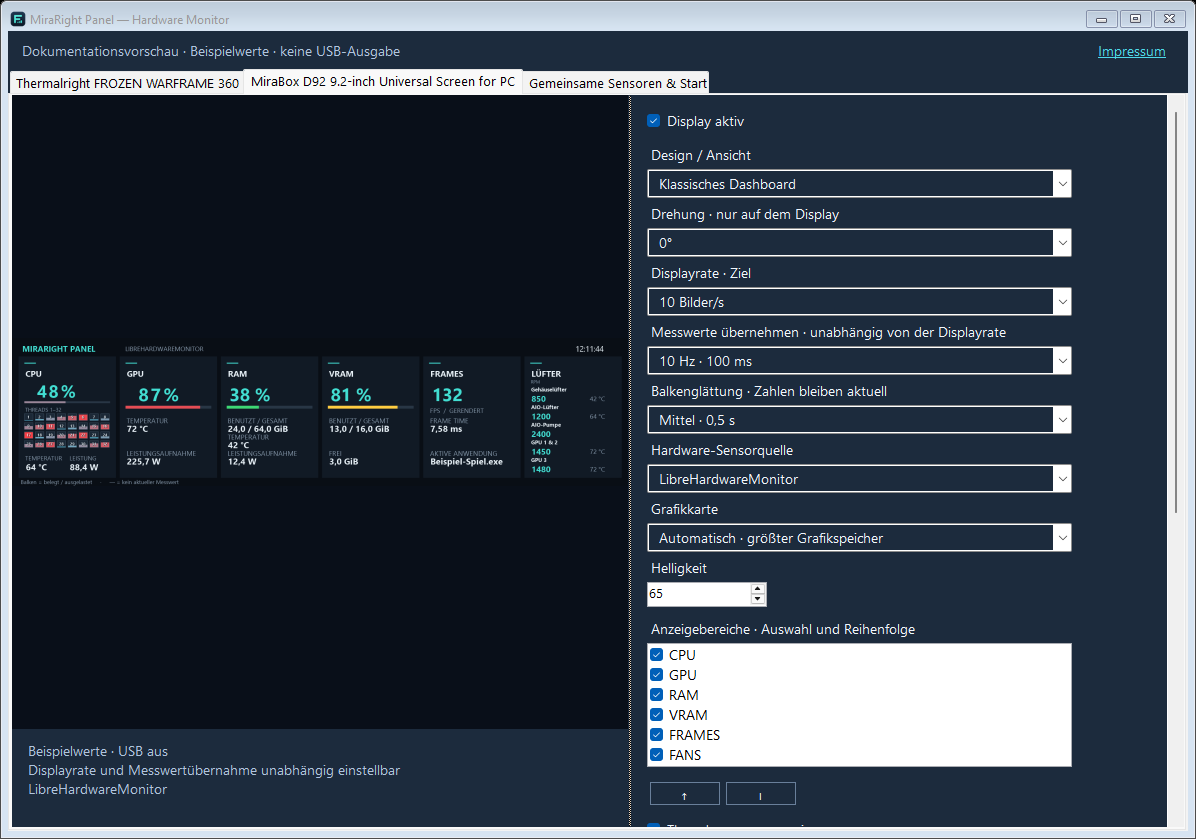
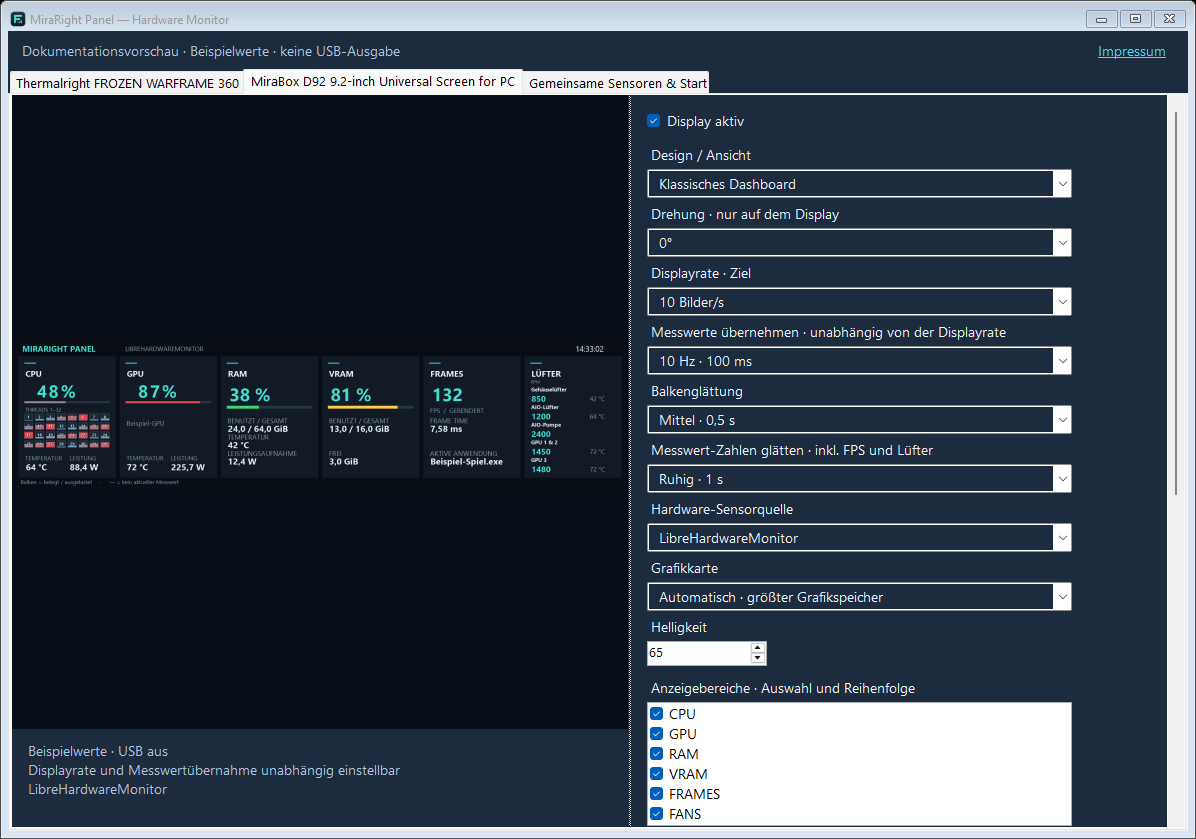
Release preview.5 with readout smoothing, sensor recovery and debug logs

Changed region(s): [[0.5259, 0.5268, 0.8972, 0.9917], [0.0928, 0.4648, 0.1856, 0.5578], [0.6187, 0.4648, 0.7425, 0.4958]]

diff --git a/src/AioDisplay.App/Sensors/SensorProcessClient.cs b/src/AioDisplay.App/Sensors/SensorProcessClient.cs
@@ -22,6 +22,9 @@ public sealed class SensorProcessClient : IDisposable
     private readonly bool elevated;
     private bool elevationAttempted;
     private ElevatedSensorTransport transport;
+    private bool scheduledOnly;
+    private DateTime nextDebug, nextRetry;
+    private int invalidFrames, failures;
 
     public SensorProcessClient(string path, Action<string> logger, bool elevated = false)
     {
@@ -55,15 +58,22 @@ public sealed class SensorProcessClient : IDisposable
             if (elevated && elevationAttempted && signature != configuration) { StopLocked(); elevationAttempted = false; attempted = DateTime.MinValue; }
             if (transport?.Starting == true && signature == configuration) return;
             DateTime now = DateTime.UtcNow;
+            if(now>=nextDebug){nextDebug=now.AddSeconds(30);Log.Debug("sensor.heartbeat",new { Pid=ProcessId, Elevated=elevated, Scheduled=transport?.Scheduled, Starting=transport?.Starting, Sequence=sequence, AgeMs=healthy==DateTime.MinValue?(double?)null:(now-healthy).TotalMilliseconds, InvalidFrames=invalidFrames, RetryBlocked=elevated&&elevationAttempted, NextRetry=nextRetry });}
+            bool recoverable=elevated&&elevationAttempted&&transport?.Scheduled==true&&transport.Starting==false;
+            if(recoverable&&child!=null&&child.HasExited){Log.Debug("sensor.exited",new { Pid=child.Id, ExitCode=ExitCode });StopLocked();scheduledOnly=true;elevationAttempted=false;nextRetry=now.AddSeconds(Math.Min(60,3*Math.Pow(2,Math.Min(failures++,4))));}
             if (child != null && !child.HasExited)
             {
                 bool unchanged = configuration == signature;
                 bool starting = healthy == DateTime.MinValue && now - attempted < TimeSpan.FromSeconds(20);
                 if (unchanged && (starting || now - healthy < TimeSpan.FromSeconds(5))) return;
                 log("Sensor host restart: " + (unchanged ? "no valid snapshots" : "configuration changed"));
+                Log.Debug("sensor.watchdog",new { Pid=child.Id, Reason=unchanged?"no valid snapshots":"configuration changed", AgeMs=healthy==DateTime.MinValue?(double?)null:(now-healthy).TotalMilliseconds, Sequence=sequence });
+                bool retryWithoutUac=transport?.Scheduled==true;
                 StopLocked();
+                if(retryWithoutUac){scheduledOnly=true;elevationAttempted=false;nextRetry=now.AddSeconds(Math.Min(60,3*Math.Pow(2,Math.Min(failures++,4))));}
                 attempted = DateTime.MinValue;
             }
+            if(now<nextRetry)return;
             if (now - attempted < TimeSpan.FromSeconds(3)) return;
             // Never repeat UAC prompts automatically after cancellation or worker failure.
             if (elevated && elevationAttempted) return;
@@ -78,7 +88,7 @@ public sealed class SensorProcessClient : IDisposable
                     if (options.ParentId <= 0) throw new InvalidDataException("Admin-Sensorprozess benötigt einen übergeordneten Prozess.");
                     elevationAttempted = true; signature = configuration; sequence = 0; healthy = DateTime.MinValue;
                     var currentTransport = new ElevatedSensorTransport(); transport = currentTransport;
-                    currentTransport.Start(executable, options, configuration, process => { lock (sync) { if (disposed || transport != currentTransport) { process.Dispose(); return; } child = process; attempted = DateTime.UtcNow; log("Admin sensor host started: pid=" + process.Id); } }, Receive, log);
+                    currentTransport.Start(executable, options, configuration, process => { lock (sync) { if (disposed || transport != currentTransport) { process.Dispose(); return; } child = process; attempted = DateTime.UtcNow; log("Admin sensor host started: pid=" + process.Id); } }, Receive, log, scheduledOnly);
                     return;
                 }
                 var process = new Process
@@ -124,12 +134,13 @@ public sealed class SensorProcessClient : IDisposable
 
     private void Receive(Process process, string line)
     {
-        if (!SnapshotProtocol.TryRead(line, out var snapshot)) return;
+        if (!SnapshotProtocol.TryRead(line, out var snapshot)) { if(!string.IsNullOrEmpty(line))Interlocked.Increment(ref invalidFrames); return; }
         lock (sync)
         {
             // Ignore callbacks queued by a previous child after a restart.
             if (disposed || child != process || snapshot.SampleSequence <= sequence) return;
-            sequence = snapshot.SampleSequence;
+            if(sequence==0)Log.Debug("sensor.first-snapshot",new { Pid=process.Id, snapshot.SampleSequence, Bytes=line.Length, snapshot.Status });
+            sequence = snapshot.SampleSequence; failures=0;
             Volatile.Write(ref latest, snapshot);
             // Unavailable sensors are a valid answer; only a silent/malformed producer needs restarting.
             healthy = DateTime.UtcNow;

diff --git a/src/AioDisplay.App/UI/UnifiedWindow.cs b/src/AioDisplay.App/UI/UnifiedWindow.cs
@@ -41,7 +41,8 @@ public sealed class UnifiedWindow : Form {
   Title("Drehung · nur auf dem Display");int[] angles=kind=="Thermalright"?[0,90,180,270]:[0,180];var rotation=SelectBox(angles.Select(v=>(object)(v+"°")).ToArray(),Array.IndexOf(angles,initial.Rotation));flow.Controls.Add(rotation);rotation.SelectionChangeCommitted+=(_,_)=>Change(kind,p=>p.Rotation=angles[rotation.SelectedIndex]);
   Title("Displayrate · Ziel");var fps=SelectBox(FlexPanel.PanelConfig.DisplayRates.Select(v=>(object)(v+" Bilder/s")).ToArray(),Array.IndexOf(FlexPanel.PanelConfig.DisplayRates,initial.Fps));flow.Controls.Add(fps);fps.SelectionChangeCommitted+=(_,_)=>Change(kind,p=>p.Fps=FlexPanel.PanelConfig.DisplayRates[fps.SelectedIndex]);
   Title("Messwerte übernehmen · unabhängig von der Displayrate");var rate=SelectBox(FlexPanel.PanelConfig.SensorIntervals.Select(v=>(object)$"{1000d/v:0.#} Hz · {v} ms").ToArray(),Array.IndexOf(FlexPanel.PanelConfig.SensorIntervals,initial.SensorMs));flow.Controls.Add(rate);rate.SelectionChangeCommitted+=(_,_)=>Change(kind,p=>p.SensorMs=FlexPanel.PanelConfig.SensorIntervals[rate.SelectedIndex]);
-  Title("Balkenglättung · Zahlen bleiben aktuell");var smooth=SelectBox(["Aus","Leicht · 0,25 s","Mittel · 0,5 s","Ruhig · 1 s","Stark · 2 s"],Array.IndexOf(FlexPanel.PanelConfig.BarWindows,initial.BarWindowMs));flow.Controls.Add(smooth);smooth.SelectionChangeCommitted+=(_,_)=>Change(kind,p=>p.BarWindowMs=FlexPanel.PanelConfig.BarWindows[smooth.SelectedIndex]);
+  Title("Balkenglättung");var smooth=SelectBox(["Aus","Leicht · 0,25 s","Mittel · 0,5 s","Ruhig · 1 s","Stark · 2 s"],Array.IndexOf(FlexPanel.PanelConfig.BarWindows,initial.BarWindowMs));flow.Controls.Add(smooth);smooth.SelectionChangeCommitted+=(_,_)=>Change(kind,p=>p.BarWindowMs=FlexPanel.PanelConfig.BarWindows[smooth.SelectedIndex]);
+  Title("Messwert-Zahlen glätten · inkl. FPS und Lüfter");var percentages=SelectBox(["Aus","Leicht · 0,25 s","Mittel · 0,5 s","Ruhig · 1 s","Stark · 2 s"],Array.IndexOf(FlexPanel.PanelConfig.BarWindows,initial.ValueWindowMs??initial.PercentWindowMs));flow.Controls.Add(percentages);percentages.SelectionChangeCommitted+=(_,_)=>Change(kind,p=>p.ValueWindowMs=FlexPanel.PanelConfig.BarWindows[percentages.SelectedIndex]);
   Title("Hardware-Sensorquelle");var source=SelectBox(["LibreHardwareMonitor","MSI Afterburner"],initial.Source=="MSIAfterburner"?1:0);flow.Controls.Add(source);source.SelectionChangeCommitted+=(_,_)=>Change(kind,p=>p.Source=source.SelectedIndex==1?"MSIAfterburner":"LibreHardwareMonitor");
   Title("Grafikkarte");var gpu=SelectBox([new Choice("","Automatisch · größter Grafikspeicher")],0);gpus[kind]=gpu;flow.Controls.Add(gpu);gpu.SelectionChangeCommitted+=(_,_)=>Change(kind,p=>p.Gpu=((Choice)gpu.SelectedItem).Id);
   if(kind=="MiraBox"){
@@ -70,6 +71,7 @@ public sealed class UnifiedWindow : Form {
   flow.Controls.Add(new Label{Text=sensorTaskInstalled?"Sensorstart ohne UAC: eingerichtet. Der Sensorprozess startet automatisch mit dem Panel.":"Sensorstart ohne UAC: einmalige Einrichtung über Install-SensorAutostart.ps1 (als Administrator).",Width=900,Height=48});
   flow.Controls.Add(new Label{Text="Die bisherigen Einzelprogramme bleiben als Backup erhalten. Deren Autostarts müssen beim dauerhaften Wechsel deaktiviert werden, damit sie die USB-Geräte nicht gleichzeitig belegen.",Width=900,Height=65});
   var about=new Button{Text="Info & Impressum",Width=270,Height=36};flow.Controls.Add(about);about.Click+=(_,_)=>{using var dialog=new AboutWindow();dialog.ShowDialog(this);};
+  var debug=new Button{Text="Debug-Log öffnen",Width=270,Height=36};flow.Controls.Add(debug);debug.Click+=(_,_)=>{try{Log.Debug("log.opened");System.Diagnostics.Process.Start(new System.Diagnostics.ProcessStartInfo("notepad.exe"){UseShellExecute=true,ArgumentList={Log.DebugPath}});}catch(Exception e){MessageBox.Show(this,e.Message,"Debug-Log");}};
   var hide=new Button{Text="In den Infobereich",Width=270,Height=36};flow.Controls.Add(hide);hide.Click+=(_,_)=>{Hide();ShowInTaskbar=false;};var exit=new Button{Text="Gemeinsames Panel beenden",Width=270,Height=36};flow.Controls.Add(exit);exit.Click+=(_,_)=>PostExit();
  }
  record Choice(string Id,string Name){public override string ToString()=>Name;}

diff --git a/src/FlexPanel.Core/ReadoutAverager.cs b/src/FlexPanel.Core/ReadoutAverager.cs
@@ -1,0 +1,49 @@
+// SPDX-License-Identifier: MIT
+namespace FlexPanel;
+
+// Display-only means. Sensor snapshots and the independent bar history stay unchanged.
+public sealed class ReadoutAverager {
+ readonly Dictionary<string,Queue<(double at,double value)>> history=new();
+ string identity="";int window=-1;long previous=long.MinValue;
+ static double Now=>System.Diagnostics.Stopwatch.GetTimestamp()*1000d/System.Diagnostics.Stopwatch.Frequency;
+ void Prepare(string key,int milliseconds){if(identity!=key||window!=milliseconds){Reset();identity=key;window=milliseconds;}}
+ double? Mean(string key,double? raw,long sample,double now){
+  if(raw is not double value||!double.IsFinite(value)){history.Remove(key);return null;}
+  if(window<=0)return value;
+  if(!history.TryGetValue(key,out var values))history[key]=values=new();
+  if(sample!=previous)values.Enqueue((now,value));
+  while(values.Count>0&&values.Peek().at<=now-window)values.Dequeue();
+  return values.Count>0?values.Average(v=>v.value):value;
+ }
+ public Snapshot Apply(Snapshot s,PanelConfig config,int milliseconds)=>Apply(s,config,milliseconds,Now);
+ public Snapshot Apply(Snapshot s,PanelConfig config,int milliseconds,double now){
+  Prepare(s.SourceName+"|"+s.GpuName+"|"+config.GpuId+"|"+s.RamTotal+"|"+s.VramTotal+"|"+string.Join('|',config.SensorSelections.OrderBy(p=>p.Key).Select(p=>p.Key+"="+p.Value)),milliseconds);
+  var active=new HashSet<string>();
+  double? M(string key,double? value){active.Add(key);return Mean(key,value,s.At.Ticks,now);}
+  double? ram=M("ram",s.RamUsed),vram=M("vram",s.VramUsed);
+  var bars=new Dictionary<string,double>(s.BarValues);
+  void RawBar(string key,double? value){if(!bars.ContainsKey(key)&&value is double v&&double.IsFinite(v))bars[key]=v;}
+  RawBar("cpu",s.CpuLoad);RawBar("gpu",s.GpuLoad);RawBar("ram",s.RamUsed);RawBar("vram",s.VramUsed);
+  for(int i=0;i<s.CpuThreads.Length;i++)RawBar("thread:"+i,s.CpuThreads[i]);
+  var result=s with{
+   BarValues=bars,
+   CpuLoad=M("cpu.load",s.CpuLoad),CpuTemp=M("cpu.temp",s.CpuTemp),CpuWatts=M("cpu.watts",s.CpuWatts),
+   GpuLoad=M("gpu.load",s.GpuLoad),GpuTemp=M("gpu.temp",s.GpuTemp),GpuWatts=M("gpu.watts",s.GpuWatts),
+   RamUsed=ram,RamFree=s.RamFree.HasValue&&ram.HasValue&&s.RamTotal.HasValue?Math.Max(0,s.RamTotal.Value-ram.Value):M("ram.free",s.RamFree),RamTemp=M("ram.temp",s.RamTemp),RamWatts=M("ram.watts",s.RamWatts),
+   VramUsed=vram,VramFree=s.VramFree.HasValue&&vram.HasValue&&s.VramTotal.HasValue?Math.Max(0,s.VramTotal.Value-vram.Value):M("vram.free",s.VramFree),
+   SsdTemp=M("ssd.temp",s.SsdTemp),DiskLoad=M("disk.load",s.DiskLoad),
+   CpuThreads=s.CpuThreads.Select((v,i)=>M("thread:"+i,v)).ToArray(),
+   Fans=s.Fans.Select(f=>f with{Rpm=M("fan.rpm:"+f.Id+"|"+f.RpmSource,f.Rpm),Temperature=M("fan.temp:"+f.Id+"|"+f.TemperatureSensor+"|"+f.TemperatureSource,f.Temperature)}).ToArray()
+  };
+  foreach(string key in history.Keys.Where(k=>!active.Contains(k)).ToArray())history.Remove(key);
+  previous=s.At.Ticks;return result;
+ }
+ public Snapshot ApplyFrames(Snapshot s,long sequence,int milliseconds)=>ApplyFrames(s,sequence,milliseconds,Now);
+ public Snapshot ApplyFrames(Snapshot s,long sequence,int milliseconds,double now){
+  Prepare(s.FrameApp,milliseconds);
+  double? fps=Mean("fps",s.Fps,sequence,now),ms=Mean("frame.ms",s.FrameMs,sequence,now);
+  previous=sequence;
+  return s with{Fps=s.Fps.HasValue&&s.FrameMs>0&&ms>0?1000/ms:fps,FrameMs=ms};
+ }
+ public void Reset(){history.Clear();identity="";window=-1;previous=long.MinValue;}
+}

diff --git a/src/AioDisplay.App/Sensors/ElevatedSensorTransport.cs b/src/AioDisplay.App/Sensors/ElevatedSensorTransport.cs
@@ -15,7 +15,8 @@ internal sealed class ElevatedSensorTransport : IDisposable
     readonly CancellationTokenSource stop = new();
     NamedPipeServerStream pipe;
     public volatile bool Starting = true;
-    public void Start(string executable, SensorOptions options, string configuration, Action<Process> started, Action<Process, string> receive, Action<string> log)
+    public volatile bool Scheduled;
+    public void Start(string executable, SensorOptions options, string configuration, Action<Process> started, Action<Process, string> receive, Action<string> log, bool scheduledOnly=false)
     {
         _ = Task.Run(async () =>
         {
@@ -35,12 +36,16 @@ internal sealed class ElevatedSensorTransport : IDisposable
                 stop.Token.ThrowIfCancellationRequested();
                 Process process = null;
                 bool scheduled = ScheduledSensorTask.Installed;
+                if(scheduledOnly&&!scheduled)throw new IOException("Sensoraufgabe nicht verfügbar; automatischer Neustart löst keine UAC-Abfrage aus.");
+                Scheduled=scheduled;
+                Log.Debug("sensor.launch",new { Mode=scheduled?"scheduled":"uac", options.ParentId });
                 if (scheduled) { ScheduledSensorTask.Run(name, options); log("Sensorstart über Windows-Aufgabe (ohne UAC)."); }
                 else { process = Process.Start(info) ?? throw new IOException("Sensorprozess wurde nicht gestartet."); started(process); }
                 await pipe.WaitForConnectionAsync(timeout.Token);
                 if (!GetNamedPipeClientProcessId(pipe.SafePipeHandle.DangerousGetHandle(), out uint pid)) throw new IOException("Sensorprozess am Datenkanal unbekannt.");
                 if (scheduled) { process = ScheduledSensorTask.ConnectedProcess(pid); started(process); }
                 else if (pid != process.Id) throw new IOException("Unerwarteter Sensorprozess am Datenkanal.");
+                Log.Debug("sensor.pipe.connected",new { Pid=pid });
                 using var writer = new StreamWriter(pipe, new System.Text.UTF8Encoding(false), 4096, true) { AutoFlush = true };
                 using var reader = new StreamReader(pipe, System.Text.Encoding.UTF8, false, 4096, true);
                 await writer.WriteLineAsync(configuration);
@@ -48,13 +53,13 @@ internal sealed class ElevatedSensorTransport : IDisposable
                 while (!stop.IsCancellationRequested)
                 {
                     string line = await reader.ReadLineAsync(stop.Token);
-                    if (line == null) break;
-                    if (line.StartsWith("#LOG ")) log("Sensor host: " + line[5..]);
+                    if (line == null) { Log.Debug("sensor.pipe.eof",new { Pid=process.Id, Requested=stop.IsCancellationRequested }); break; }
+                    if (line.StartsWith("#LOG ")) { log("Sensor host: " + line[5..]);Log.Debug("sensor.stderr",new { Message=line[5..Math.Min(line.Length,4005)] }); }
                     else receive(process, line);
                 }
             }
             catch (OperationCanceledException) { }
-            catch (Exception e) { if (!stop.IsCancellationRequested) log("Admin-Sensorprozess: " + e.Message); }
+            catch (Exception e) { if (!stop.IsCancellationRequested) { log("Admin-Sensorprozess: " + e.Message); Log.Debug("sensor.pipe.error",new { Type=e.GetType().FullName, e.Message, e.HResult, e.StackTrace }); } }
             finally { Starting = false; pipe?.Dispose(); }
         });
     }

diff --git a/tests/AioDisplay.Tests/ReadoutChecks.cs b/tests/AioDisplay.Tests/ReadoutChecks.cs
@@ -1,0 +1,29 @@
+// SPDX-License-Identifier: GPL-3.0-only
+static class ReadoutChecks {
+ static void Check(bool valid,string what){if(!valid)throw new Exception(what);}
+ public static void Run(){
+  var smoother=new FlexPanel.ReadoutAverager();var config=new FlexPanel.PanelConfig();var time=DateTime.UtcNow;
+  FlexPanel.FanReading Fan(string id,double? rpm)=>new(id,id,rpm,"LHM",50,"cpu.temp","LHM","","");
+  var a=new FlexPanel.Snapshot{At=time,CpuLoad=0,GpuLoad=20,CpuTemp=40,GpuTemp=50,CpuWatts=10,GpuWatts=100,RamUsed=8,RamTotal=32,RamFree=24,VramUsed=4,VramTotal=16,VramFree=12,RamTemp=30,RamWatts=5,CpuThreads=[0,20],Fans=[Fan("a",900),Fan("b",1000)]};
+  smoother.Apply(a,config,1000,0);
+  var b=a with{At=time.AddMilliseconds(100),CpuLoad=100,GpuLoad=80,CpuTemp=60,GpuTemp=70,CpuWatts=30,GpuWatts=200,RamUsed=16,RamFree=16,VramUsed=8,VramFree=8,RamTemp=50,RamWatts=15,CpuThreads=[100,80],Fans=[Fan("b",3000),Fan("a",1100)]};
+  var result=smoother.Apply(b,config,1000,100);
+  Check(result.CpuLoad==50&&result.GpuLoad==50&&result.CpuWatts==20&&result.GpuWatts==150&&result.CpuTemp==50&&result.GpuTemp==60&&result.RamTemp==40&&result.RamWatts==10,"temperatures, loads and watts averaged");
+  Check(result.RamUsed==12&&result.RamFree==20&&result.VramUsed==6&&result.VramFree==10,"memory means keep used/free/total consistent");
+  Check(result.Fans[0].Rpm==2000&&result.Fans[1].Rpm==1000,"fans tracked by ID, not order");
+  Check(result.BarValues["cpu"]==100&&result.CpuThreads[0]==50&&b.CpuLoad==100,"raw bar fallback and original snapshot preserved");
+  Check(smoother.Apply(b,config,1000,200).GpuWatts==150,"duplicate sensor sample not weighted again");
+  var missing=smoother.Apply(b with{At=time.AddMilliseconds(300),CpuTemp=null,Fans=[Fan("a",null)]},config,1000,300);Check(missing.CpuTemp==null&&missing.Fans[0].Rpm==null,"missing values shown immediately");
+  Check(smoother.Apply(b with{SourceName="Other"},config,1000,400).GpuWatts==200,"new sensor source resets history");
+  Check(smoother.Apply(b,config,0,500).CpuWatts==30,"off restores current values");
+  var frames=new FlexPanel.ReadoutAverager();frames.ApplyFrames(new(){FrameApp="A",Fps=100,FrameMs=10},1,1000,0);
+  var f=frames.ApplyFrames(new(){FrameApp="A",Fps=50,FrameMs=20},2,1000,100);Check(f.FrameMs==15&&Math.Abs(f.Fps.Value-1000d/15)<0.001,"FPS stays consistent with averaged frame time");
+  Check(frames.ApplyFrames(new(){FrameApp="B",Fps=25,FrameMs=40},3,1000,200).Fps==25,"foreground app switch clears old FPS");
+  Check(frames.ApplyFrames(new(){FrameApp="B"},4,1000,300).Fps==null,"no ghost frames when application stops rendering");
+  var profile=new DisplayProfile{PercentWindowMs=2000};profile.Validate();Check(profile.ValueWindowMs==2000,"old percentage setting migrated");profile.ValueWindowMs=500;profile.Validate();Check(profile.Copy().ValueWindowMs==500,"new setting independent and copied");
+  var demo=b with{CpuWatts=125.5,GpuWatts=125.5,CpuThreads=Enumerable.Range(0,32).Select(i=>(double?)(i*3)).ToArray(),GpuName="Beispiel-GPU",Fps=100,FrameMs=10};
+  using var classic=FlexPanel.Renderer.Draw(demo,new(){ThreadNumbers=true});classic.Save("readout-classic.png");
+  using var panorama=FlexPanel.Renderer.Draw(demo,new(){Design="Thermalright",ThreadNumbers=true});panorama.Save("readout-panorama.png");
+  Console.WriteLine("PASS: all readout means, memory consistency, fan identity, raw bars, migration and foreground FPS reset");
+ }
+}

diff --git a/src/AioDisplay.App/Services/DisplaySession.cs b/src/AioDisplay.App/Services/DisplaySession.cs
@@ -11,9 +11,9 @@ public sealed class DisplaySession : IDisposable {
  public DisplaySession(Func<DisplayProfile> settings,Func<FlexPanel.HardwareBundle> source,Func<IDisplayOutput> output,Func<FlexPanel.Snapshot,DisplayProfile,Bitmap> renderer,bool previewMode=false){profile=settings;sensors=source;factory=output;render=renderer;previewOnly=previewMode;}
  public void Start(){sampler=Task.Run(SampleLoop);worker=Task.Run(Run);}
  async Task SampleLoop(){
-  var average=new FlexPanel.BarAverager();var clock=Stopwatch.StartNew();
+  var average=new FlexPanel.BarAverager();var numbers=new FlexPanel.ReadoutAverager();var clock=Stopwatch.StartNew();
   try{while(!stop.IsCancellationRequested){double started=clock.Elapsed.TotalMilliseconds;var p=profile();
-   if(p.Enabled){try{var raw=sensors().Select(p.Source,p.Gpu);p.MiraBox.SensorSource=p.Source;p.MiraBox.GpuId=p.Gpu;p.MiraBox.BarWindowMs=p.BarWindowMs;sample=average.Apply(FlexPanel.SensorSelection.Apply(raw,p.MiraBox),p.MiraBox);}catch(Exception e){average.Reset();sample=new(){SensorStatus=e.Message};}}
+   if(p.Enabled){try{var raw=sensors().Select(p.Source,p.Gpu);p.MiraBox.SensorSource=p.Source;p.MiraBox.GpuId=p.Gpu;p.MiraBox.BarWindowMs=p.BarWindowMs;sample=numbers.Apply(average.Apply(FlexPanel.SensorSelection.Apply(raw,p.MiraBox),p.MiraBox),p.MiraBox,p.ValueWindowMs??p.PercentWindowMs);}catch(Exception e){average.Reset();numbers.Reset();sample=new(){SensorStatus=e.Message};}}
    await FlexPanel.PanelRate.Delay(clock,started,p.SensorMs,stop.Token);
   }}catch(OperationCanceledException)when(stop.IsCancellationRequested){}
  }
@@ -23,11 +23,14 @@ public sealed class DisplaySession : IDisposable {
  async Task Run(){
   IDisplayOutput output=null;
   var clock=Stopwatch.StartNew();double report=0;int count=0;
+  var framesAverage=new FlexPanel.ReadoutAverager();FlexPanel.HardwareBundle previousFrames=null;long frameSequence=0;
   try{while(!stop.IsCancellationRequested){double started=clock.Elapsed.TotalMilliseconds;var p=profile();
    if(!p.Enabled){output?.Dispose();output=null;status="Deaktiviert";Volatile.Write(ref actualFps,0);await Task.Delay(100,stop.Token);continue;}
    try{
-    var rawFrame=sensors();var visible=sample with{Fps=rawFrame.Fps,FrameMs=rawFrame.FrameMs,FrameApp=rawFrame.FrameApp,FrameStatus=rawFrame.FrameStatus};
-    if((DateTime.UtcNow-visible.At).TotalSeconds>3)visible=new(){SourceName=p.Source,FrameApp=rawFrame.FrameApp,Fps=rawFrame.Fps,FrameMs=rawFrame.FrameMs};
+    var rawFrame=sensors();if(!ReferenceEquals(rawFrame,previousFrames)){previousFrames=rawFrame;frameSequence++;}
+    var visible=sample with{Fps=rawFrame.Fps,FrameMs=rawFrame.FrameMs,FrameApp=rawFrame.FrameApp,FrameStatus=rawFrame.FrameStatus};
+    visible=framesAverage.ApplyFrames(visible,frameSequence,p.ValueWindowMs??p.PercentWindowMs);
+    if((DateTime.UtcNow-visible.At).TotalSeconds>3)visible=new(){SourceName=p.Source,FrameApp=visible.FrameApp,Fps=visible.Fps,FrameMs=visible.FrameMs};
     using var image=render(visible,p);lock(imageLock){preview?.Dispose();preview=(Bitmap)image.Clone();}
     if(!previewOnly){output??=factory();output.Send(image,p);Interlocked.Increment(ref frames);count++;status="Verbunden";}else status="Vorschau · USB aus";
     double now=clock.Elapsed.TotalMilliseconds;if(now-report>=2000){Volatile.Write(ref actualFps,count*1000/(now-report));count=0;report=now;}

diff --git a/src/FlexPanel.Core/Renderer.cs b/src/FlexPanel.Core/Renderer.cs
@@ -15,6 +15,7 @@ public static partial class Renderer {
    string card=c.Cards[i];Text(g,card=="FANS"?"LÜFTER":card,x+18,92,22,White,true);
    float yy=137;void Big(string text){Text(g,text,x+18,yy,52,accent,true,width-32);}
    void Row(string name,string value,int row){Text(g,name,x+18,242+row*51,17,Muted);Text(g,value,x+18,263+row*51,23,White,true,width-32);}
+   void CpuGpuDetails(double? temperature,double? watts){Text(g,"TEMPERATUR",x+18,361,15,Muted);Text(g,N(temperature," °C"),x+18,383,23,White,true,width/2-20);Text(g,"LEISTUNG",x+width/2+4,361,15,Muted);Text(g,N(watts," W","0.0"),x+width/2+4,383,23,White,true,width/2-20);}
    void Bar(double? used,double? total){float y=211;using var bb=new SolidBrush(Color.FromArgb(40,54,69));g.FillRectangle(bb,x+18,y,width-36,9);if(used.HasValue&&total>0){double percent=Math.Clamp(used.Value/total.Value*100,0,100);using var ab=new SolidBrush(card is "RAM" or "VRAM"?MemoryColor(percent):LoadColor(percent));g.FillRectangle(ab,x+18,y,(width-36)*(float)(percent/100),9);}}
    switch(card){
     case "CPU":
@@ -24,10 +25,9 @@ public static partial class Renderer {
      var threads=s.CpuThreads.Length>0?ThreadBars(s):new double?[Environment.ProcessorCount];
      Text(g,$"THREADS 1–{threads.Length}",x+18,212,13,Muted);
      ThreadGrid(g,threads,x+18,236,width-36,106,accent,c.ThreadNumbers);
-     Text(g,"TEMPERATUR",x+18,361,15,Muted);Text(g,N(s.CpuTemp," °C"),x+18,383,23,White,true,width/2-20);
-     Text(g,"LEISTUNG",x+width/2+4,361,15,Muted);Text(g,N(s.CpuWatts," W","0.0"),x+width/2+4,383,23,White,true,width/2-20);
+     CpuGpuDetails(s.CpuTemp,s.CpuWatts);
      break;
-    case "GPU":Percentage(g,s.GpuLoad,x+18,137,52,accent);Bar(BarValue(s,"gpu",s.GpuLoad),100);Row("TEMPERATUR",N(s.GpuTemp," °C"),0);Row("LEISTUNGSAUFNAHME",N(s.GpuWatts," W","0.0"),2);break;
+    case "GPU":Percentage(g,s.GpuLoad,x+18,128,50,accent);using(var track=new SolidBrush(Color.FromArgb(40,54,69)))g.FillRectangle(track,x+18,197,width-36,6);if(BarValue(s,"gpu",s.GpuLoad) is double gpuLoad){using var fill=new SolidBrush(LoadColor(gpuLoad));g.FillRectangle(fill,x+18,197,(width-36)*(float)Math.Clamp(gpuLoad/100,0,1),6);}Text(g,s.GpuName,x+18,250,17,Muted,false,width-36);CpuGpuDetails(s.GpuTemp,s.GpuWatts);break;
     case "RAM":Big(N(s.RamTotal>0?s.RamUsed/s.RamTotal*100:null," %"));Bar(BarValue(s,"ram",s.RamUsed),s.RamTotal);Row("BENUTZT / GESAMT",N(s.RamUsed,"","0.0")+" / "+N(s.RamTotal," GiB","0.0"),0);Row("TEMPERATUR",N(s.RamTemp," °C"),1);Row("LEISTUNGSAUFNAHME",N(s.RamWatts," W","0.0"),2);break;
     case "VRAM":Big(N(s.VramTotal>0?s.VramUsed/s.VramTotal*100:null," %"));Bar(BarValue(s,"vram",s.VramUsed),s.VramTotal);Row("BENUTZT / GESAMT",N(s.VramUsed,"","0.0")+" / "+N(s.VramTotal," GiB","0.0"),0);Row("FREI",N(s.VramFree," GiB","0.0"),2);break;
     case "FRAMES":Big(N(s.Fps));Text(g,"FPS  /  GERENDERT",x+18,211,16,Muted);Row("FRAME TIME",N(s.FrameMs," ms","0.00"),0);Row("AKTIVE ANWENDUNG",s.FrameApp.Length>0?s.FrameApp:"—",2);break;

diff --git a/tests/AioDisplay.Tests/TestRunner.cs b/tests/AioDisplay.Tests/TestRunner.cs
@@ -19,12 +19,13 @@ internal static class TestRunner
             if (args.FirstOrDefault() == "--golden") { Golden.Main(new[] { output }); return 0; }
             if (args.FirstOrDefault() == "--unified-live") { UnifiedChecks.Live(args[2],int.Parse(args[3])); return 0; }
             if (args.FirstOrDefault() == "--scheduled-live") { UnifiedChecks.Live(args[2],int.Parse(args[3]),true); return 0; }
+            if (args.FirstOrDefault() == "--scheduled-recovery") { UnifiedChecks.ScheduledRecovery(args[2]); return 0; }
             if (args.FirstOrDefault() == "--layout") { UnifiedChecks.Layout(); return 0; }
             if (args.FirstOrDefault() == "--live") { IntegrationChecks.Live(args[2], int.Parse(args[3])); return 0; }
             if (args.FirstOrDefault() == "--lifecycle") { IntegrationChecks.Lifecycle(args[2], args[3]); return 0; }
             if (args.FirstOrDefault() == "--parent-harness") { IntegrationChecks.ParentHarness(args[2]); return 0; }
             foreach (var type in new[] { typeof(Check), typeof(SettingsCheck), typeof(BarAveragerCheck), typeof(HardwareCheck), typeof(SnapshotFilesCheck), typeof(AboutChecks) }) type.GetMethod("Main", BindingFlags.Static | BindingFlags.Public | BindingFlags.NonPublic).Invoke(null, null);
-            DiscoveryChecks.Main(); FanNamesChecks.Main(); ProtocolChecks(); UnifiedChecks.Run(); Console.WriteLine("ALL REGRESSION TESTS PASSED"); return 0;
+            DiscoveryChecks.Main(); FanNamesChecks.Main(); ProtocolChecks(); DebugLogChecks.Run(); PercentageChecks.Run(); ReadoutChecks.Run(); UnifiedChecks.Run(); Console.WriteLine("ALL REGRESSION TESTS PASSED"); return 0;
         }
         catch (Exception e) { Console.Error.WriteLine(e is TargetInvocationException ? e.InnerException : e); return 1; }
         finally { SensorHub.Stop(); }

diff --git a/src/AioDisplay.App/Sensors/UnifiedSensorHub.cs b/src/AioDisplay.App/Sensors/UnifiedSensorHub.cs
@@ -5,6 +5,7 @@ using System.Diagnostics;
 
 public sealed class UnifiedSensorHub : IDisposable {
  readonly SensorProcessClient client;readonly SensorOptions options;readonly EventWaitHandle stopSignal;long parsedSequence=-1;FlexPanel.HardwareBundle bundle=new();bool disposed;
+ DateTime nextDebug;bool? wasFresh;
  public UnifiedSensorHub(DisplaySettings settings,bool allowElevation){
   client=new SensorProcessClient(SensorHub.HostPath,Log.Write,settings.AdminSensors&&allowElevation);
   string stopName="Local\\AioUnifiedSensorStop-"+Guid.NewGuid().ToString("N");stopSignal=new EventWaitHandle(false,EventResetMode.ManualReset,stopName);
@@ -14,8 +15,10 @@ public sealed class UnifiedSensorHub : IDisposable {
  public int? LastExitCode {get;private set;}
  public FlexPanel.HardwareBundle Read(){
   client.EnsureRunning(options);var snapshot=client.Read();
-  if(!snapshot.Fresh||snapshot.UnifiedJson.Length==0)return new();
-  if(snapshot.SampleSequence!=parsedSequence){bundle=FlexPanel.HardwareBundle.Parse(snapshot.UnifiedJson);parsedSequence=snapshot.SampleSequence;}
+  bool available=snapshot.Fresh&&snapshot.UnifiedJson.Length>0;
+  if(available&&snapshot.SampleSequence!=parsedSequence){bundle=FlexPanel.HardwareBundle.Parse(snapshot.UnifiedJson);parsedSequence=snapshot.SampleSequence;}
+  if(wasFresh!=available||DateTime.UtcNow>=nextDebug){wasFresh=available;nextDebug=DateTime.UtcNow.AddSeconds(30);Log.Debug("sensors.data",new { Pid=client.ProcessId, Fresh=available, snapshot.Status, snapshot.Error, snapshot.SampleSequence, UnifiedBytes=snapshot.UnifiedJson.Length, Libre=available?bundle.Libre.Count:0, Fans=available?bundle.Libre.Values.Select(s=>s.Fans.Count(f=>f.Rpm.HasValue)).ToArray():Array.Empty<int>() });}
+  if(!available)return new();
   return bundle;
  }
  public void Dispose(){

diff --git a/tests/AioDisplay.Tests/PercentageChecks.cs b/tests/AioDisplay.Tests/PercentageChecks.cs
@@ -1,0 +1,19 @@
+// SPDX-License-Identifier: GPL-3.0-only
+static class PercentageChecks {
+ static void Check(bool value,string message){if(!value)throw new Exception(message);}
+ public static void Run(){
+  var average=new FlexPanel.PercentageAverager();var config=new FlexPanel.PanelConfig();var time=DateTime.UtcNow;
+  var first=new FlexPanel.Snapshot{At=time,CpuLoad=0,GpuLoad=20,BarValues=new Dictionary<string,double>{{"cpu",80}},RamUsed=12,CpuTemp=55,Fps=144};
+  average.Apply(first,config,1000,0);
+  var next=first with{At=time.AddMilliseconds(100),CpuLoad=100,GpuLoad=80};var shown=average.Apply(next,config,1000,100);
+  Check(shown.CpuLoad==50&&shown.GpuLoad==50,"CPU/GPU percentages averaged");
+  Check(shown.BarValues["cpu"]==80&&shown.RamUsed==12&&shown.CpuTemp==55&&shown.Fps==144&&next.CpuLoad==100,"bars, unrelated readings and original snapshot preserved");
+  Check(average.Apply(next,config,1000,200).CpuLoad==50,"duplicate sample not weighted twice");
+  var missing=average.Apply(next with{At=time.AddMilliseconds(300),GpuLoad=null},config,1000,300);Check(missing.GpuLoad==null,"missing readings not concealed");
+  Check(average.Apply(next with{At=time.AddSeconds(2),CpuLoad=80},config,1000,2000).CpuLoad==80,"expired samples discarded");
+  Check(average.Apply(next with{SourceName="Other",CpuLoad=30},config,1000,2100).CpuLoad==30,"source switch resets history");
+  Check(average.Apply(next,config,0,2200).CpuLoad==100,"off preserves raw percentage");
+  var profile=new DisplayProfile{PercentWindowMs=2000};profile.Validate();Check(profile.Copy().PercentWindowMs==2000,"per-display setting copied");
+  Console.WriteLine("PASS: percentage smoothing, unique samples, missing values, expiry, source changes and independent bars");
+ }
+}

diff --git a/tests/AioDisplay.Tests/UnifiedChecks.cs b/tests/AioDisplay.Tests/UnifiedChecks.cs
@@ -3,6 +3,20 @@ using System.Drawing;
 using System.Text.Json;
 
 static class UnifiedChecks {
+ public static void ScheduledRecovery(string host){
+  Check(ScheduledSensorTask.Installed,"task required; test must not request UAC");
+  using var parent=System.Diagnostics.Process.GetCurrentProcess();
+  var options=new SensorOptions{Unified=true,IntervalMs=100,ParentId=parent.Id,ParentStartTicks=parent.StartTime.ToUniversalTime().Ticks};
+  using var client=new SensorProcessClient(host,Console.WriteLine,true);
+  void Wait(Func<bool> ready){var timer=System.Diagnostics.Stopwatch.StartNew();while(timer.Elapsed.TotalSeconds<35){System.Windows.Forms.Application.DoEvents();client.EnsureRunning(options);if(ready())return;Thread.Sleep(50);}throw new Exception("Scheduled recovery timeout");}
+  Wait(()=>client.Read().Fresh);int first=client.ProcessId.Value;using var old=System.Diagnostics.Process.GetProcessById(first);
+  var field=typeof(SensorProcessClient).GetField("transport",System.Reflection.BindingFlags.Instance|System.Reflection.BindingFlags.NonPublic);
+  ((IDisposable)field.GetValue(client)).Dispose();
+  Wait(()=>client.ProcessId is int pid&&pid!=first&&client.Read().Fresh);
+  Check(old.WaitForExit(10000),"disconnected worker exited");int second=client.ProcessId.Value;
+  client.Stop();using var last=System.Diagnostics.Process.GetProcessById(second);Check(last.WaitForExit(15000),"replacement worker stopped");
+  Console.WriteLine("PASS: scheduled sensor recovers from disconnected pipe without UAC and both workers exit");
+ }
  public static void Layout(){
   SensorHub.HostPath=Path.Combine(Log.Root,"MissingSensorHost.exe");
   new DisplaySettings().Save();

diff --git a/src/AioDisplay.App/Services/Log.cs b/src/AioDisplay.App/Services/Log.cs
@@ -14,6 +14,20 @@ using System.Windows.Forms;
 using System.Runtime.InteropServices;
 public static class Log
 {
+    static readonly object debugLock = new();
+    public static string DebugPath => Path.Combine(Root, "debug.log");
+    public static void Debug(string name, object data = null)
+    {
+        try { lock (debugLock) {
+            if (File.Exists(DebugPath) && new FileInfo(DebugPath).Length >= 1048576) {
+                for (int i=2;i>=0;i--) { string from=i==0?DebugPath:DebugPath+"."+i; if(File.Exists(from)) File.Move(from,DebugPath+"."+(i+1),true); }
+            }
+            string details=System.Text.Json.JsonSerializer.Serialize(data);
+            if(details.Length>8192)details=System.Text.Json.JsonSerializer.Serialize(new { Truncated=true, Details=details[..8192] });
+            string line=System.Text.Json.JsonSerializer.Serialize(new { At=DateTime.UtcNow, Process=Environment.ProcessId, Event=name, Data=System.Text.Json.JsonSerializer.Deserialize<System.Text.Json.JsonElement>(details) });
+            File.AppendAllText(DebugPath,line+Environment.NewLine,new System.Text.UTF8Encoding(false));
+        }} catch (Exception e) when (e is IOException or UnauthorizedAccessException) { }
+    }
     public static string Root = AppDomain.CurrentDomain.BaseDirectory, LastSensorError = "";
     public static void Write(string s) { try { var path = Path.Combine(Root, "panel.log"); if (File.Exists(path) && new FileInfo(path).Length > 1048576) File.WriteAllText(path, ""); File.AppendAllText(path, DateTime.Now.ToString("s") + " " + s + Environment.NewLine); } catch (IOException) { } }
 }
